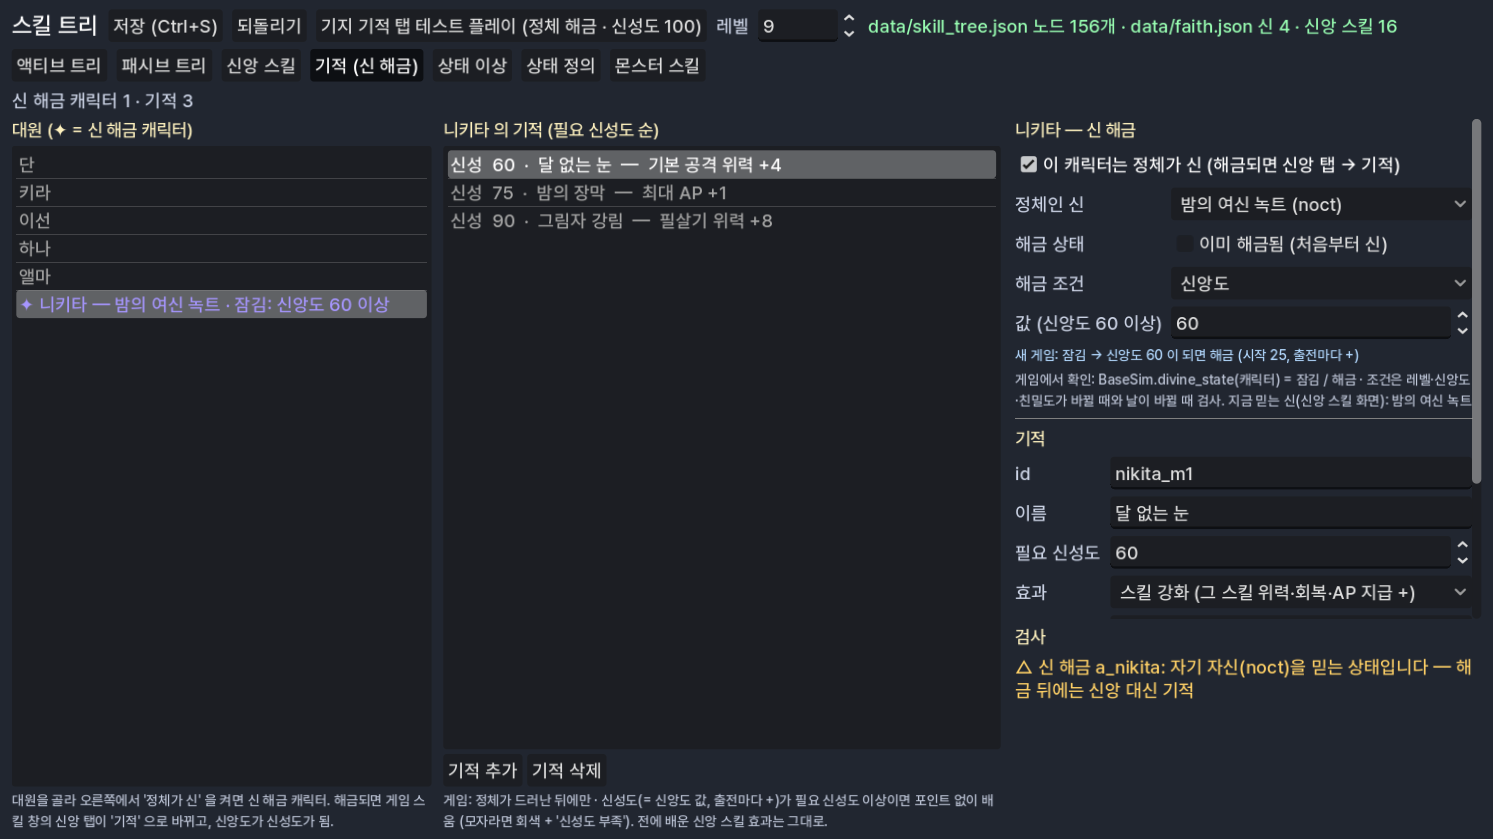
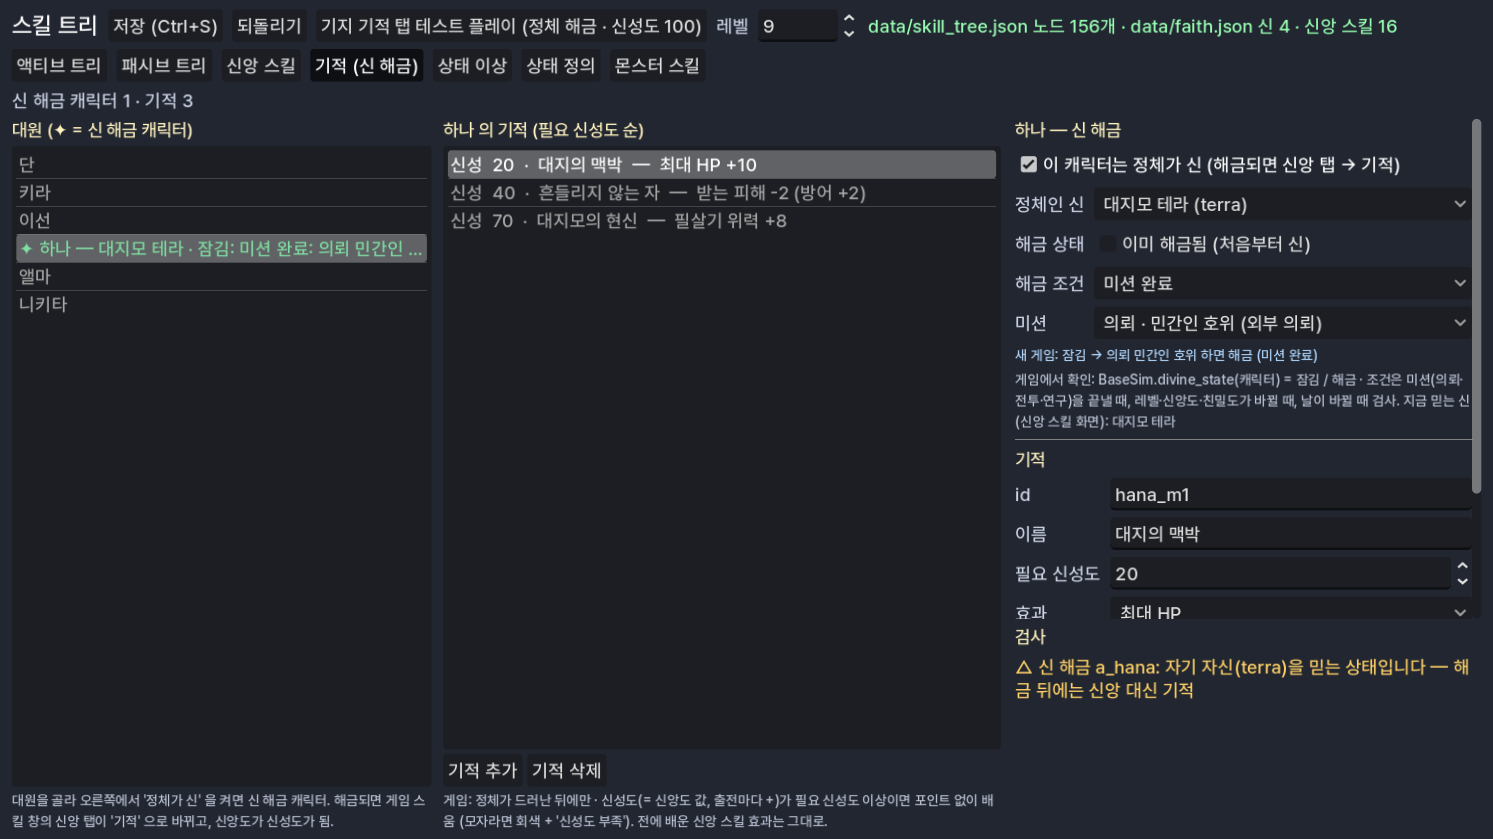
하나 = 신(잠김, 미션 완료로 해금) · 니키타 신 아님 · 해금 조건 '미션 완료'
- UnlockCond quest: 의뢰 업무 완료 / 전투 승리 / 연구 완료 (contract: · stage: · research:)
- BaseSim.quest_done, 의뢰·연구·전투가 끝날 때 해금 검사
- 에디터 기적 화면: 조건 '미션 완료' → 미션 고르기
- [임시] 하나 정체 = 대지모 테라, 미션 = 의뢰 민간인 호위, 기적 3개

Claude-Session: https://claude.ai/code/session_014aytw3hj7boqn3SZ5GP5ti

diff --git a/tools/gen_faith.py b/tools/gen_faith.py
@@ -20,11 +20,11 @@ GODS = [
 BELIEVERS = {"a_dan": {"god": "veyra", "faith": 30}, "a_kira": {"god": "noct", "faith": 20}, "a_ethan": {"god": "solus", "faith": 40},
              "a_hana": {"god": "terra", "faith": 10}, "a_alma": {"god": "solus", "faith": 50}, "a_nikita": {"god": "noct", "faith": 25}}
 # [임시] 신 해금 캐릭터: 정체가 신 — 조건을 채우면 신앙 탭이 '기적' 으로 / 그 캐릭터만의 기적 (필요 신성도 = 신앙도 값)
-DIVINE = {"a_nikita": {"god": "noct", "unlocked": False, "condition": {"type": "faith", "value": 60}}}
+DIVINE = {"a_hana": {"god": "terra", "unlocked": False, "condition": {"type": "quest", "value": 0, "target": "contract:c_ext_escort"}}}
 MIRACLES = [
-    {"id": "nikita_m1", "char": "a_nikita", "name": "달 없는 눈", "need": 60, "effect": "skill_power:basic_attack", "value": 4, "desc": "기본 공격 위력 +4"},
-    {"id": "nikita_m2", "char": "a_nikita", "name": "밤의 장막", "need": 75, "effect": "ap", "value": 1, "desc": "최대 AP +1"},
-    {"id": "nikita_m3", "char": "a_nikita", "name": "그림자 강림", "need": 90, "effect": "skill_power:ultimate", "value": 8, "desc": "필살기 위력 +8"},
+    {"id": "hana_m1", "char": "a_hana", "name": "대지의 맥박", "need": 20, "effect": "hp", "value": 10, "desc": "최대 HP +10"},
+    {"id": "hana_m2", "char": "a_hana", "name": "흔들리지 않는 자", "need": 40, "effect": "defense", "value": 2, "desc": "받는 피해 -2 (방어 +2)"},
+    {"id": "hana_m3", "char": "a_hana", "name": "대지모의 현신", "need": 70, "effect": "skill_power:ultimate", "value": 8, "desc": "필살기 위력 +8"},
 ]
 FS_COLS = ["신", "id", "이름", "필요신앙", "효과", "값", "설명"]
 FAITH_SKILLS = [

diff --git a/README.md b/README.md
@@ -202,9 +202,9 @@ git 이 없는 설치(zip)는 같은 설치 명령을 다시 실행하면 최신
   신마다 **아이콘 글자**(비우면 이름 끝 단어 첫 글자: 솔·베·녹·테) — 게임에서 상징색 원 아이콘. 신 id 를 바꾸거나 지우면 믿는 대원도 따라감(지우면 무신앙). **지금 값은 임시** (태양신 솔루스·전쟁신 베이라·밤의 여신 녹트·대지모 테라, 각 4개).
   게임 스킬 창 신앙 탭·대원 정보 카드의 **신 아이콘을 누르면 세계관 도감 `종교(신)` 탭**의 그 신.
 - **신 해금 캐릭터 → 기적**: 정체가 신인 캐릭터가 있음. **해금되면 그 캐릭터의 스킬 창 신앙 탭이 `✦ 기적`** 으로 바뀜 — 정체인 신(아이콘 → 도감), 신앙도 대신 **신성도**(같은 값, 출전마다 +), 그 캐릭터만의 **기적**(필요 신성도 이상이면 포인트 없이 배움, 모자라면 회색 + '신성도 부족'). 전에 배운 신앙 스킬 효과는 그대로. 대원 목록·도감에 ✦, 도감 등장인물에 '정체' 표시(잠긴 동안은 안 보임).
-  **에디터 `스킬 트리` 탭 → `기적 (신 해금)`** (`data/faith.json` 의 `divine` · `miracles`): 왼쪽 대원 목록에서 고르고 **`이 캐릭터는 정체가 신`** 을 켜면 신 해금 캐릭터 → 정체인 신 · **`이미 해금됨 (처음부터 신)`** 체크 · 체크 안 하면 **해금 조건**(직접 해금 = 이벤트·대사 / 레벨 / 신앙도 / 친밀도 / n일차 + 값) · "새 게임: 잠김 → …" 확인 줄. 가운데 그 캐릭터의 기적(추가·삭제), 오른쪽 기적 id·이름·필요 신성도·효과·값·설명. 테스트 플레이 = 정체 해금 + 신성도 100 으로 기적 탭.
-  게임에서 상태 확인: `BaseSim.divine_state(캐릭터)` = `""`(신 아님) / `"locked"` / `"unlocked"`, 직접 해금 `BaseSim.unlock_divine(캐릭터)`. 조건은 레벨·신앙도·친밀도가 바뀔 때·날이 바뀔 때·불러온 뒤 검사 → 해금되면 기록·알림. 확인: `--base_ui=divine:a_nikita` 또는 `faith:a_nikita:40`.
-  **[임시]** 니키타 = 밤의 여신 녹트, 신앙도 60 이상에서 해금, 기적 3개 (달 없는 눈 60 · 밤의 장막 75 · 그림자 강림 90).
+  **에디터 `스킬 트리` 탭 → `기적 (신 해금)`** (`data/faith.json` 의 `divine` · `miracles`): 왼쪽 대원 목록에서 고르고 **`이 캐릭터는 정체가 신`** 을 켜면 신 해금 캐릭터 → 정체인 신 · **`이미 해금됨 (처음부터 신)`** 체크 · 체크 안 하면 **해금 조건**(직접 해금 = 이벤트·대사 / **미션 완료** = 고른 의뢰 업무를 끝냄·고른 전투 승리·고른 연구 완료 / 레벨 / 신앙도 / 친밀도 / n일차 + 값) · "새 게임: 잠김 → …" 확인 줄. 가운데 그 캐릭터의 기적(추가·삭제), 오른쪽 기적 id·이름·필요 신성도·효과·값·설명. 테스트 플레이 = 정체 해금 + 신성도 100 으로 기적 탭.
+  게임에서 상태 확인: `BaseSim.divine_state(캐릭터)` = `""`(신 아님) / `"locked"` / `"unlocked"`, 직접 해금 `BaseSim.unlock_divine(캐릭터)`. 조건은 미션(의뢰·전투·연구)을 끝낼 때·레벨·신앙도·친밀도가 바뀔 때·날이 바뀔 때·불러온 뒤 검사 → 해금되면 기록·알림. 미션 완료 확인 `BaseSim.quest_done("contract:c_ext_escort")`. 확인: `--base_ui=divine:a_hana`.
+  **하나 = 신 (잠김)** — 미션 완료로 해금. **[임시]** 정체 = 대지모 테라, 미션 = 의뢰 '민간인 호위'(앨마의 요청을 수락하면 열리는 외부 의뢰)를 끝내면, 기적 3개 (대지의 맥박 20 · 흔들리지 않는 자 40 · 대지모의 현신 70). 니키타는 신 아님.
   확인: `godot --path . ++ --scene=base --base_ui=faith:a_dan:15:veyra_1`
 
 ![스킬 트리 에디터 (Godot 에디터 상단 탭)](docs/screenshots/skill_editor.png)
@@ -212,7 +212,7 @@ git 이 없는 설치(zip)는 같은 설치 명령을 다시 실행하면 최신
 ![패시브 스킬 — 레벨 미달 = 회색 + 경험 부족](docs/screenshots/skill_passive.png)
 ![신앙 스킬 — 전쟁신 베이라 (신앙 부족 = 회색 + 붉은 글씨)](docs/screenshots/skill_faith.png)
 ![신앙 스킬 에디터 (스킬 트리 탭 → 신앙 스킬)](docs/screenshots/faith_editor.png)
-![기적 탭 (정체가 신으로 드러난 니키타)](docs/screenshots/skill_miracle.png)
+![기적 탭 (정체가 신으로 드러난 하나)](docs/screenshots/skill_miracle.png)
 ![기적 · 신 해금 에디터 (스킬 트리 탭 → 기적)](docs/screenshots/miracle_editor.png)
 
 ## 세계관 도감
@@ -433,7 +433,7 @@ godot --headless --path . -s tests/run_tests.gd
 전투: GDD 8절 "필수 검증 사례" (선공 특례, 2라운드 미적용, 동률 아군/레벨/원거리 우선, AP 상한 버림/이월/0 자동 종료,
 이동/교환 AP 1, 무기 변경 AP 1, AP 부족/무효 대상 시 AP 미소모, 재시작 초기화, 시드 재현성) + 큰 몸집·장착·상태 이상·엑셀·AI 그래프.
 기지([15]~[24], `tests/outgame_tests.gd`): 날짜 전환(23:59→다음 날·월말·연말), 해금(부족/정확/초과/중복), 잠긴 방 경로·7일 이동, 요일별 일정·해금 → 생활 변화,
-대화/엿듣기/요청 구분, 일일 오염·청소·위임, 주간 결산 중복 없음, 월 1회 점검·그 주 보너스, 훈련·제작·강화 → 전투 수치, 저장/불러오기 복구, 출정 대사 고르기·출정 불가 대원([31]), 연구원 로한·무기 연구([32]), 레벨·스킬 트리([33]), 신앙([34]), 스킬 트리 데이터·에디터·신앙 데이터([35]), 전투 상태 이상([13b]), 상태 id → 효과 · 넉백·끌어당김·표식·도발·취약·재생·보호막([13c]), 몬스터 스킬([35]), 세계관 도감·믿는 신([13d]), 신 해금 캐릭터·기적·해금 조건([34b]). 현재 462개 통과.
+대화/엿듣기/요청 구분, 일일 오염·청소·위임, 주간 결산 중복 없음, 월 1회 점검·그 주 보너스, 훈련·제작·강화 → 전투 수치, 저장/불러오기 복구, 출정 대사 고르기·출정 불가 대원([31]), 연구원 로한·무기 연구([32]), 레벨·스킬 트리([33]), 신앙([34]), 스킬 트리 데이터·에디터·신앙 데이터([35]), 전투 상태 이상([13b]), 상태 id → 효과 · 넉백·끌어당김·표식·도발·취약·재생·보호막([13c]), 몬스터 스킬([35]), 세계관 도감·믿는 신([13d]), 신 해금 캐릭터·기적·해금 조건·미션 완료([34b]). 현재 471개 통과.
 
 ## 스크린샷 일괄 렌더
 ```

diff --git a/docs/design/PROTOTYPE_GDD_v1_0.md b/docs/design/PROTOTYPE_GDD_v1_0.md
@@ -4,7 +4,7 @@
 
 ## 0. 현재 구현 반영 (변경될 때마다 갱신)
 > 아래는 원 기획 이후 사용자 결정으로 바뀐 내용. 상세 결정 이력은 `00_decision_log_v1_0.md`, 아트 규격은 `../ui_art_spec.md`.
-> 마지막 갱신: 2026-10-28 (신 해금 캐릭터 → 신앙 탭이 '기적', 해금 조건)
+> 마지막 갱신: 2026-10-28 (하나 = 신(잠김, 미션 완료로 해금) · 니키타 신 아님 · 조건 '미션 완료')
 
 - **표현**: 캐릭터 2D **스프라이트 프레임 애니메이션**(**스프라이트 시트** `assets/characters/<id>/<동작>_<칸 수>.png`, 사용자가 제작 — 시트 없는 동작은 기본 그림 한 장. 현재: 하나·니키타·키라·단·이선·앨마 idle(기본 그림 숨쉬기) — 니키타(빨간 머리 의무병 코트)·키라(회색 군복, 최종)·하나(곱슬머리 군복·오른쪽 눈 아래 점, 최종)·앨마(흰 의무 가운)는 새 그림으로 교체되어 예전 걷기·피격·공격 시트는 지움) + 배경 3D(실광원·그림자). Skeleton2D 리그·3D 캐릭터 전환은 제거.
   칠 방식: **전 캐릭터 네온 칠**(선화는 원화 그대로, 면은 원화 밝기대로 조명색으로 덮음 — 어두운 면은 깊은 보라, 밝은 면은 조명색). `character.json` `"style": "classic"` 이면 예전 셀 칠, `"neon_gradient"` 0~1 = 몸 위→아래 색상 그라데이션(기본 끔).
@@ -12,7 +12,7 @@
   눈(흰자·눈동자): 눈 마스크(`base_eye.png`)가 있으면 원본 색 그대로 — 아군 6인 전원 + 시험 캐릭터.
 - **앨마 애니메이션**: idle · walk · run · attack · death — 사용자 AI 시트(6x6)에서 튀는 프레임·불필요 구간 빼고 반복 구간·속도 조정 (`tools/char_sprites.py report/sheet`). **단·이선·키라** idle · walk · run (사용자 AI 시트, 키라 idle 은 왕복 재생). **하나·니키타** idle = 원화 리깅(숨쉬기·머리·팔, 눈 깜빡임 없음), walk · run = AI 시트를 4배 확대(해상도 유지)하고 원화 머리를 붙임. **로한** idle = 리깅.
 - **세계관 도감**: 기지 상단 `도감` · 신 아이콘 클릭. 탭 = 등장인물 · 몬스터 · 상태이상 · 종교(신) · 도시 배경 (`data/codex.json`, 게임 데이터 항목은 자동 + 설명만 덧붙임). [임시] 설명 전부.
-- **신 해금 캐릭터 · 기적**: 정체가 신인 캐릭터 — 해금 조건(직접 / 레벨 / 신앙도 / 친밀도 / n일차, 또는 처음부터 해금)을 채우면 신앙 탭이 '기적'(신성도 = 신앙도 값, 그 캐릭터만의 기적). 에디터 `기적 (신 해금)`에서 캐릭터·신·조건·기적 설정. [임시] 니키타 = 녹트, 신앙도 60.
+- **신 해금 캐릭터 · 기적**: 정체가 신인 캐릭터 — 해금 조건(직접 / 미션 완료(의뢰·전투·연구) / 레벨 / 신앙도 / 친밀도 / n일차, 또는 처음부터 해금)을 채우면 신앙 탭이 '기적'(신성도 = 신앙도 값, 그 캐릭터만의 기적). 에디터 `기적 (신 해금)`에서 캐릭터·신·조건·기적 설정. **하나 = 신, 잠김 — 미션 완료로 해금** ([임시] 정체 테라 · 미션 = 의뢰 민간인 호위). 니키타는 신 아님.
 - **믿는 신**: 에디터 `신앙 스킬` 화면의 `대원 신앙`(faith.json believers)에서 설정 — 엑셀 캐릭터 시트 신·신앙 열은 없앰. 신 아이콘 = 상징색 원 + 글자.
 - **효과음**: 캐릭터별 발자국(걷기·뛰기, 아군 6명 모두) — 애니메이션의 발 닿는 프레임마다 한 걸음, 전투 자리 이동은 두 걸음. 쓰러짐(dead)은 공용(아군·몬스터).
 - **무기 그림**: 손에 붙이는 무기 그림은 숨김. 전투는 다키스트 던전처럼 (무기까지 그린) 멈춘 그림으로 보여줄 예정.

diff --git a/docs/design/00_decision_log_v1_0.md b/docs/design/00_decision_log_v1_0.md
@@ -260,6 +260,9 @@
   - [임시] 기적 = 그 캐릭터만의 스킬, 필요 신성도(= 신앙도 값, 출전마다 +5), 포인트 없이 배움. 효과 형식은 신앙 스킬과 같음. 해금 전 배운 신앙 스킬 효과는 유지.
   - [임시] 데이터: 니키타 = 밤의 여신 녹트, 신앙도 60 이상, 기적 3개 (60 · 75 · 90).
 
+- (2026-10-28, 사용자 지정) **니키타는 신 아님, 하나가 신 (잠김)** — 잠금 해제 조건 = 특정 미션(퀘스트) 완료. 해금 조건에 **미션 완료** 추가: 고른 의뢰 업무를 끝냄 / 고른 전투 승리 / 고른 연구 완료 (`contract:` · `stage:` · `research:`). 미션을 끝낼 때마다 검사.
+  - [임시] 하나의 정체 = 대지모 테라 (하나가 믿던 신), 미션 = 의뢰 '민간인 호위' (앨마의 요청 수락 → 열림), 기적 3개 (20 · 40 · 70). 따로 퀘스트(여러 단계 진행) 시스템은 아직 없음 — 지금은 의뢰·전투·연구 완료를 미션으로 씀.
+
 ## 검증 중 (확정 아님)
 - **배경 3D + 캐릭터 2D 하이브리드** (2026-10-25 적용): 배경은 3D 방을 2D 카메라와 같은 투영으로 렌더, 캐릭터 라이팅은 실제 광원 위치 기준
   (빛 쪽 얼굴·몸을 광원색으로 밝힘 + 빛이 뒤에서 오면 같은 쪽 가장자리 림 + 바닥 그림자). 캐릭터 2D(리그)는 확정 사항 유지. (이전 2D 배경 판은 2026-10-27 제거.)
